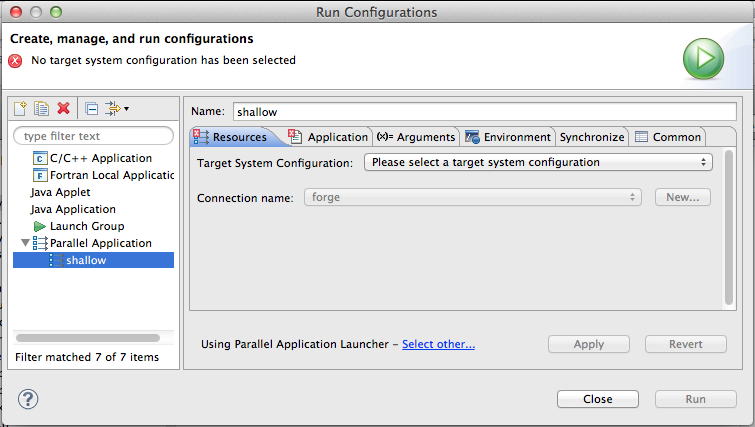
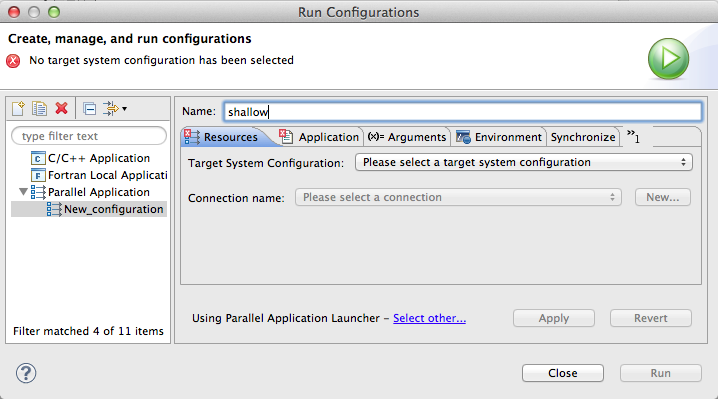
Clean up docs for 6.0

Changed region(s): [[0.0, 0.0, 1.0, 1.0]]

diff --git a/core/org.eclipse.ptp.doc.user/html/03pRunConfig.html b/core/org.eclipse.ptp.doc.user/html/03pRunConfig.html
@@ -84,47 +84,78 @@ configuration</h2>
 <h2 id="resources">Step 2: Complete the Resources tab</h2>
 <p>The <b>Resources tab</b> is used to specify the resources
 required for the job execution. The contents of this tab will vary for
-different target configurations. 
-<br>The Job Scheduler/Runtime configurations included with PTP include
-the following:
+different target configurations. PTP includes a number of target configurations
+for different systems. The following table lists the common configurations along with 
+links to additional help documentation.
 <blockquote>
 <table border="1">
    <tr>
-    <th scope="col">Job Scheduler/Runtime</th>
-    <th scope="col">Version</th>
-  </tr>
+   <th scope="col">Target Configuration</th>
+   <th scope="col">Description</th>
+   </tr>
   <tr>
     <td><a href="PLUGINS_ROOT/org.eclipse.ptp.rm.ibm.ll.help/html/IBMLLMainHelp.html">IBM LoadLeveler</a></td>
-    <td>Any</td>
-  </tr>
-    <tr>
-    <td><a href="PLUGINS_ROOT/org.eclipse.ptp.rm.ibm.pe.help/html/PEMainHelp.html">
-IBM Parallel Environment</a></td>
-    <td>Any</td>
+	<td>Generic IBM LoadLeveler batch systems</td>
   </tr>
   <tr>
-    <td><a href="PLUGINS_ROOT/org.eclipse.ptp.rm.slurm.help/html/toc.html">SLURM</a></td>
-    <td>Any</td>
+    <td><a href="PLUGINS_ROOT/org.eclipse.ptp.rm.ibm.ll.help/html/IBMLLMainHelp.html">IBM LoadLeveler (Blue Gene)</a></td>
+	<td>IBM LoadLeveler on Blue Gene systems</td>
   </tr>
   <tr>
-    <td><a href="PLUGINS_ROOT/org.eclipse.ptp.rm.jaxb.doc.user/html/PBSHelpPage.html">PBS</a></td>
-    <td>Any</td>
+    <td><a href="PLUGINS_ROOT/org.eclipse.ptp.rm.ibm.pe.help/html/PEMainHelp.html">IBM Parallel Environment</a></td>
+    <td>Interactive execution using IBM Parallel Environment</td>
   </tr>
   <tr>
-    <td><a href="PLUGINS_ROOT/org.eclipse.ptp.rm.jaxb.doc.user/html/PBSHelpPage.html">TORQUE</a></td>
-    <td>Any</td>
+    <td><a href="PLUGINS_ROOT/org.eclipse.ptp.rm.slurm.help/html/toc.html">SLURM-Generic-Batch</a></td>
+    <td>Generic SLURM batch systems</td>
   </tr>
   <tr>
-    <td><a href="rms/gridengine.html">Grid Engine</a></td>
-    <td>Any</td>
+    <td><a href="PLUGINS_ROOT/org.eclipse.ptp.rm.slurm.help/html/toc.html">SLURM-BGP-Batch</a></td>
+    <td>Blue Gene/P systems using SLURM</td>
   </tr>
   <tr>
-    <td><a href="rms/openMPI.html">Open MPI</a></td>
-    <td>1.3 or later</td>
+    <td><a href="PLUGINS_ROOT/org.eclipse.ptp.rm.slurm.help/html/toc.html">SLURM-BGQ-Batch</a></td>
+    <td>Blue Gene/Q systems using SLURM</td>
   </tr>
   <tr>
-    <td>MPICH2</td>
-    <td>1.0.6p1 or later</td>
+    <td><a href="PLUGINS_ROOT/org.eclipse.ptp.rm.jaxb.doc.user/html/PBSHelpPage.html">PBS-Generic-Batch</a></td>
+    <td>Generic PBS batch systems</td>
+  </tr>
+  <tr>
+    <td><a href="PLUGINS_ROOT/org.eclipse.ptp.rm.jaxb.doc.user/html/PBSHelpPage.html">PBS-Generic-Interactive</a></td>
+    <td>Interactive job execution using PBS batch systems</td>
+  </tr>
+  <tr>
+    <td><a href="PLUGINS_ROOT/org.eclipse.ptp.rm.jaxb.doc.user/html/PBSHelpPage.html">PBS-BGP-Batch</a></td>
+    <td>Blue Gene/P systems using </td>
+  </tr>
+  <tr>
+    <td><a href="PLUGINS_ROOT/org.eclipse.ptp.rm.jaxb.doc.user/html/PBSHelpPage.html">PBS-BGQ-Batch</a></td>
+    <td>Blue Gene/Q systems using PBS</td>
+  </tr>
+  <tr>
+    <td><a href="PLUGINS_ROOT/org.eclipse.ptp.rm.jaxb.doc.user/html/PBSHelpPage.html">Torque-Generic-Batch</a></td>
+    <td>Generic TORQUE batch systems</td>
+  </tr>
+  <tr>
+    <td><a href="PLUGINS_ROOT/org.eclipse.ptp.rm.jaxb.doc.user/html/PBSHelpPage.html">Torque-Generic-Interactive</a></td>
+    <td>Interactive job execution using Torque batch systems</td>
+  </tr>
+  <tr>
+    <td><a href="rms/gridengine.html">Grid Engine-Generic-Batch</a></td>
+    <td>Batch exectuion using Grid Engine</td>
+  </tr>
+  <tr>
+    <td><a href="rms/openMPI.html">Open MPI-Generic-Interactive</a></td>
+    <td>Interactive execution on Open MPI systems</td>
+  </tr>
+  <tr>
+    <td>MPICH2-Generic-Interactive</td>
+    <td>Interactive execution on MPICH2 systems</td>
+  </tr>
+  <tr>
+    <td>Remote-Generic-Interactive</td>
+    <td>Simple (non-parallel) interactive execution on remote systems</td>
   </tr>
 </table>
 </blockquote>
@@ -133,36 +164,34 @@ IBM Parallel Environment</a></td>
 	<li>
 	<p>Select a <b>Target System Configuration</b> 
 	you wish to use from the drop-down. 
-	Note that a number of pre-configured target system configurations for various job scheduler and runtime systems
-	have been included with the PTP installation.
+
 	</p>
 	<p>&nbsp;
 	<p><img src="images/03resources_configs.png">
 	</p>
 	<p>&nbsp
-	<p>To launch with various legacy-style configurations from previous
-	releases of PTP, use the <b>Using Parallel Application Launcher - <u>Select other...</u></b>
-	link at the bottom of this dialog.
+	
+	<p><i>Note: PTP provides the ability to launch with various legacy-style configurations from previous
+	releases of PTP. Use the <b>Using Parallel Application Launcher - <u>Select other...</u></b>
+	link at the bottom of this dialog to choose a legacy launcher.</i>
 	 
-	<p><br>
-	When you select the Target System Configuration, the contents of the <b>Resources</b>
-	tab will change depending on the requirements of this type of system.
-	</p>
 	<p>&nbsp
 	
 	</li>
 	<li>
 	<!-- !!!!!!!!!!!!!!!!!!!!!!!!!!!!!!! -->
 	<p>Select the connection to use for the target system.
-	In the case of a synchronized or remote project, a connection is probably already selected.
-	You can create a new connection here by selecting the <b>New...</b> button.
-	<p>Fill in the other tabs in the run configuration as the selected
-	target system configuration requires.
+	If you have previously configured a synchronized or remote project, then a connection should be 
+	available, and may be already be selected.
+	You can create a new connection here by clicking the <b>New...</b> button. 
 	 </p>
 	<p>
 	<p>&nbsp</p>
 	<li>
-	<p>Fill in the other information within the <b>Resources</b> as your target system configuration requires.<br>
+	<p>
+	Once you select the connection, you may be prompted to open the connection if it is not already open. The contents of the <b>Resources</b>
+	tab will then populate with controls that allow you to configure the necessary launch information for the target system. Fill in the information 
+	required by the target system configuration.<br>
 	</p>
 	</li>
 

diff --git a/core/org.eclipse.ptp.doc.user/html/07ptpPrefs.html b/core/org.eclipse.ptp.doc.user/html/07ptpPrefs.html
@@ -55,7 +55,7 @@ are:</p>
 preferences that apply to any parallel debugger.</p>
 <p><img src="images/07prefsDebug.png"></p>
 
-<h3>Default setting</h3>
+<h3>Default settings</h3>
 <p>These preferences control some debugger default behavior</p>
 <dl>
 	<dt><b>Show full paths on breakpoint</b> (default disabled)</dt>
@@ -111,12 +111,12 @@ launched. They do not normally need to be altered.</p>
 	<dd>The name of the backend debugger to use when debugging the
 	application. This is an internal name known by the SDM, not the name of
 	the debugger itself. Currently only gdb using the MI mode is supported.</dd>
-	<dt><b>Path to backend debugger</b> (default empty)</dt>
+	<dt><b>Path to gdb executable</b> (default empty)</dt>
 	<dd>If the backend debugger (e.g. gdb) is not located in a standard directory
 	then this field can be used to specify an alternate location.</dd>
-	<dt><b>Extra SDM arguments</b> (default empty)</dt>
-	<dd>Any extra arguments that need to be supplied to the sdm (e.g.
-	for debugging purposes)</dd>
+	<dt><b>Path to SDM executable</b> (default empty)</dt>
+	<dd>Sets the preferred path to the SDM executable. This will be used
+	to populate the Debug tab on the launch configuration.</dd>
 </dl>
 
 <h3>SDM debugging options</h3>
@@ -140,19 +140,23 @@ provided using the ETFw extensions.
 For more information see <a href="http://wiki.eclipse.org/PTP/ETFw/PTP_External_Tools_Framework">the ETFw wiki page</a>.
 </p>
 <p><img src="images/07prefsExternal.png"></p>
-<a name="feedback"></a>
-<p>The Feedback view preferences page handles cases where extensions are installed that utilize the
-Feedback view.  Here a checkbox controls whether or not the items in the Feedback tree table view
-are left expanded/contracted or not.
-See <a href="PLUGINS_ROOT/org.eclipse.ptp.etfw.feedback/html/toc.html">
-Feedback view</a> for more information.
-</p>
-<p><img src="images/07prefsExternal2.png"></p>
-<p>The Tool Configuration Location page allows the user to enter information about where to find
-tools that utilize the ETFw extensions.  In this case PPW and TAU tools can have their bin directories specified.
 
-</p>
-<p><img src="images/07prefsExternal3.png"></p>
+<h3>External Tool Configuration</h3>
+<p>These preferences are used to configure ETFw</p>
+
+<dl>
+	<dt><b>Tool Definition File</b> (default empty)</dt>
+	<dd>The name of a file containing the ETFw XML configuration.</dd>
+</dl>
+
+<h2 id="feedback">Feedback View (Parallel Tools &gt; External Tools &gt; Feedback View)</h2>
+<p>The Feedback view preferences page handles cases where extensions are installed that utilize the
+Feedback view.</p>
+<p><img src="images/07prefsExternal2.png"></p>
+
+<h3>Preferences for Feedback View</h3>
+<p>These preferences are used to configure the feedback view. See <a href="PLUGINS_ROOT/org.eclipse.ptp.etfw.feedback/html/toc.html">
+Feedback view</a> for more information.</p>
 
 <h2 id="pldt">Parallel Language Development Tools (PLDT) Preferences</h2>
 <p>See the help for <a
